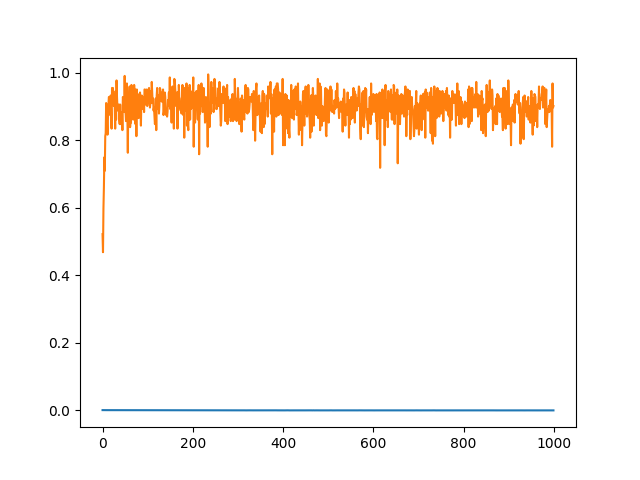
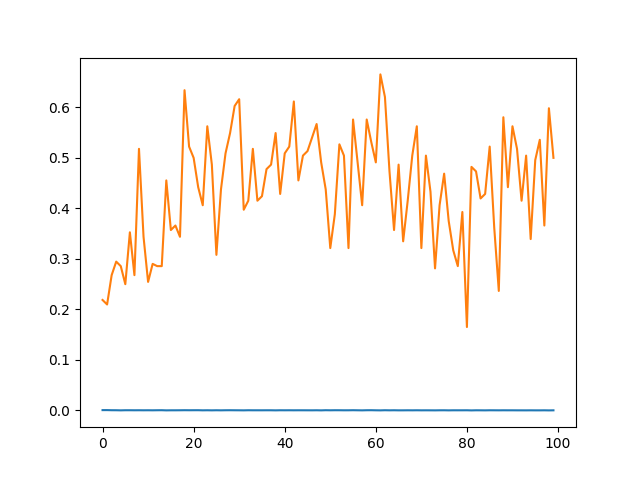
change accuracy function

diff --git a/try_with_torch.py b/try_with_torch.py
@@ -8,6 +8,7 @@ import numpy as np
 import torchvision
 import torchvision.transforms as transforms
 import matplotlib.pyplot as plt
+import json
 
 os.environ["CUDA_DEVICE_ORDER"] = "PCI_BUS_ID"
 # The GPU id to use, usually either "0" or "1"
@@ -16,17 +17,72 @@ os.environ["CUDA_VISIBLE_DEVICES"] = "1"
 nModules = 2
 nFeats = 256
 nStack = 4
-nOutChannels = 14
-epochs = 1000
+nOutChannels = 17
+epochs = 100
 batch_size = 16
+keypoints = 17
 
 mode = 'train'
-save_model_name = 'params_5.pkl'
+save_model_name = 'params_1_coco.pkl'
 
 train_set = 'train_set.txt'
 eval_set = 'eval_set.txt'
+train_set_coco = '/data/COCO2014/annotations/person_keypoints_train2014.json'
+eval_set_coco = '/data/COCO2014/annotations/person_keypoints_val2014.json'
+train_image_dir_coco = '/data/COCO2014/train2014/COCO_train2014_'
+eval_image_dir_coco = '/data/COCO2014/val2014/COCO_val2014_'
 
 rootdir = '/data/lsp_dataset/images/'
+
+
+class myImageDataset_COCO(data.Dataset):
+    def __init__(self, filename, image_dir, transform=None, dim=(256, 256), n_channels=3,
+                 n_joints=keypoints):
+        'Initialization'
+        with open(filename) as f:
+            datas = json.load(f)
+        self.lists = datas['annotations']
+        self.dim = dim
+        file = open(filename)
+        self.n_channels = n_channels
+        self.n_joints = n_joints
+        self.transform = transform
+        self.image_dir = image_dir
+
+    def __len__(self):
+        return 1000
+
+    def __getitem__(self, index):
+        data = self.lists[index]
+        image_name = self.image_dir + '%012d.jpg' % data['image_id']
+        image = Image.open(image_name)
+        image = image.convert('RGB')
+        w, h = image.size
+        image = image.resize([256, 256])
+        if self.transform is not None:
+            image = self.transform(image)
+        Gauss_map = np.zeros([keypoints, 64, 64])
+        for k in range(keypoints):
+            if data['keypoints'][k * 3 + 2] > 0:
+                xs = data['keypoints'][k * 3] / w * 64
+                ys = data['keypoints'][k * 3 + 1] / h * 64
+
+                sigma = 1
+                mask_x = np.matlib.repmat(xs, 64, 64)
+                mask_y = np.matlib.repmat(ys, 64, 64)
+
+                x1 = np.arange(64)
+                x_map = np.matlib.repmat(x1, 64, 1)
+
+                y1 = np.arange(64)
+                y_map = np.matlib.repmat(y1, 64, 1)
+                y_map = np.transpose(y_map)
+
+                temp = ((x_map - mask_x) ** 2 + (y_map - mask_y) ** 2) / (2 * sigma ** 2)
+
+                Gauss_map[k, :, :] = np.exp(-temp)
+
+        return image, torch.Tensor(Gauss_map)
 
 
 class myImageDataset(data.Dataset):
@@ -241,6 +297,8 @@ class PCKh(nn.Module):
             standard = torch.sqrt((torch.pow(head_ys - neck_ys, 2) + torch.pow(head_xs - neck_xs, 2)).float()) / 2
             for j in range(14):
                 label_heat_map = target[i, j, :, :]
+                if torch.max(label_heat_map) == 0:
+                    continue
                 label_ys = torch.max(torch.max(label_heat_map, 1)[0], 0)[1]
                 label_xs = torch.max(label_heat_map, 1)[1][head_ys]
                 predict_heat_map = x[i, j, :, :]
@@ -271,17 +329,21 @@ def main():
         transforms.ToTensor(),
         transforms.Normalize(mean=(0.5, 0.5, 0.5), std=(0.5, 0.5, 0.5))
     ])
-    imgLoader_train = data.DataLoader(myImageDataset(train_set, jointsdir, transform=mytransform), batch_size=batch_size,
-                                shuffle=True,
-                                num_workers=8)
-    imgLoader_eval = data.DataLoader(myImageDataset(eval_set, jointsdir, transform=mytransform),
-                                      batch_size=batch_size,
-                                      shuffle=True,
-                                      num_workers=8)
+    # imgLoader_train = data.DataLoader(myImageDataset(train_set, jointsdir, transform=mytransform), batch_size=batch_size,
+    #                             shuffle=True,
+    #                             num_workers=8)
+    # imgLoader_eval = data.DataLoader(myImageDataset(eval_set, jointsdir, transform=mytransform),
+    #                                   batch_size=batch_size,
+    #                                   shuffle=True,
+    #                                   num_workers=8)
+
+    imgLoader_train_coco = data.DataLoader(myImageDataset_COCO(train_set_coco, train_image_dir_coco, transform=mytransform), batch_size=batch_size, shuffle=True, num_workers=8)
+    imgLoader_eval_coco = data.DataLoader(myImageDataset_COCO(eval_set_coco, eval_image_dir_coco, transform=mytransform), batch_size=batch_size, shuffle=True, num_workers=4)
+
     opt = torch.optim.RMSprop(model.parameters(), lr=1e-4)
     if mode == 'train':
         for epoch in range(epochs):
-            for i, [x_, y] in enumerate(imgLoader_train, 0):
+            for i, [x_, y] in enumerate(imgLoader_train_coco, 0):
                 bx_, by = x_.cuda(), y.cuda()
                 result = model(bx_)
                 loss_1 = loss1.forward(result[0], by)
@@ -293,7 +355,7 @@ def main():
                 losses.backward()
                 opt.step()
             with torch.no_grad():
-                dataiter = iter(imgLoader_eval)
+                dataiter = iter(imgLoader_eval_coco)
                 x_, y = dataiter.next()
                 bx_, by = x_.cuda(), y.cuda()
                 result = model(bx_)
@@ -314,7 +376,7 @@ def main():
         model.load_state_dict(torch.load(save_model_name))
         image = Image.open(rootdir + 'im0401.jpg').resize([256, 256])
         image_normalize = (mytransform(image)).unsqueeze(0)
-        result = model.forward(image_normalize.cuda())
+        result = model.forward(image_normalize)
         # accuracy = pckh(result[3], label.cuda())
         # print(accuracy)
         result = result[3].cpu().data.numpy()

diff --git a/read_mscoco.py b/read_mscoco.py
@@ -1,7 +1,126 @@
+import torch
+import torch.nn as nn
+import torch.utils.data as data
 import json
+import numpy as np
+import numpy.matlib
+from PIL import Image, ImageDraw
+import matplotlib.pyplot as plt
 
-image_dir = '/data/COCO2014/'
-with open('/data/COCO2014/annotations/person_keypoints_train2014.json') as f:
-    data = json.load(f)
+keypoints = 17
+image_dir = '/data/COCO2014/val2014/COCO_val2014_'
+train_set_coco = '/data/COCO2014/annotations/person_keypoints_train2014.json'
+eval_set_coco = '/data/COCO2014/annotations/person_keypoints_val2014.json'
+train_image_dir_coco = '/data/COCO2014/train2014/COCO_train2014_'
+eval_image_dir_coco = '/data/COCO2014/val2014/COCO_val2014_'
 
-print(data)
+batch_size = 16
+keypoints = 17
+
+class myImageDataset_COCO(data.Dataset):
+    def __init__(self, filename, image_dir, transform=None, dim=(256, 256), n_channels=3,
+                 n_joints=keypoints):
+        'Initialization'
+        with open(filename) as f:
+            datas = json.load(f)
+        self.lists = datas['annotations']
+        self.dim = dim
+        file = open(filename)
+        self.n_channels = n_channels
+        self.n_joints = n_joints
+        self.transform = transform
+        self.image_dir = image_dir
+
+    def __len__(self):
+        return len(self.lists)
+
+    def __getitem__(self, index):
+        data = self.lists[index]
+        image_name = self.image_dir + '%012d.jpg' % data['image_id']
+        image = Image.open(image_name)
+        image = image.convert('RGB')
+        w, h = image.size
+        image = image.resize([256, 256])
+        if self.transform is not None:
+            image = self.transform(image)
+        Gauss_map = np.zeros([keypoints, 64, 64])
+        for k in range(keypoints):
+            if data['keypoints'][k * 3 + 2] > 0:
+                xs = data['keypoints'][k * 3] / w * 64
+                ys = data['keypoints'][k * 3 + 1] / h * 64
+
+                sigma = 1
+                mask_x = np.matlib.repmat(xs, 64, 64)
+                mask_y = np.matlib.repmat(ys, 64, 64)
+
+                x1 = np.arange(64)
+                x_map = np.matlib.repmat(x1, 64, 1)
+
+                y1 = np.arange(64)
+                y_map = np.matlib.repmat(y1, 64, 1)
+                y_map = np.transpose(y_map)
+
+                temp = ((x_map - mask_x) ** 2 + (y_map - mask_y) ** 2) / (2 * sigma ** 2)
+
+                Gauss_map[k, :, :] = np.exp(-temp)
+
+        return image, torch.Tensor(Gauss_map)
+
+
+if __name__ == '__main__':
+    dataset = myImageDataset_COCO(train_set_coco, train_image_dir_coco)
+    image, result = dataset.__getitem__(5)
+    print('yyy')
+    draw = ImageDraw.Draw(image)
+    for i in range(17):
+        plt.subplot(3, 9, i + 1)
+        plt.imshow(result[i, :, :])
+    for i in range(17):
+        x = result[i, :, :]
+        if np.max(x.numpy() > 0.5):
+            ys, xs = np.multiply(np.where(x == np.max(x.numpy())), 4)
+            width = 5
+            draw.ellipse([xs - width, ys - width, xs + width, ys + width], fill=(0, 255, 0), outline=(255, 0, 0))
+
+    del draw
+    plt.subplot(3, 1, 3)
+    plt.imshow(image)
+    plt.show()
+
+    with open('/data/COCO2014/annotations/person_keypoints_val2014.json') as f:
+        datas = json.load(f)
+    for i in range(len(datas['annotations'])):
+        data = datas['annotations'][i]
+        image_name = image_dir + '%012d.jpg' % data['image_id']
+        image = Image.open(image_name)
+        w, h = image.size
+        image = image.resize([256, 256])
+        Gauss_map = np.zeros([keypoints, 64, 64])
+        draw = ImageDraw.Draw(image)
+        for k in range(keypoints):
+            if data['keypoints'][k * 3 + 2] > 0:
+                xs = data['keypoints'][k * 3] / w * 64
+                ys = data['keypoints'][k * 3 + 1] / h * 64
+
+                width = 1
+                draw.ellipse([xs * 4 - width, ys * 4 - width, xs * 4 + width, ys * 4 + width], fill=(0, 255, 0), outline=(255, 0, 0))
+
+                sigma = 1
+                mask_x = np.matlib.repmat(xs, 64, 64)
+                mask_y = np.matlib.repmat(ys, 64, 64)
+
+                x1 = np.arange(64)
+                x_map = np.matlib.repmat(x1, 64, 1)
+
+                y1 = np.arange(64)
+                y_map = np.matlib.repmat(y1, 64, 1)
+                y_map = np.transpose(y_map)
+
+                temp = ((x_map - mask_x) ** 2 + (y_map - mask_y) ** 2) / (2 * sigma ** 2)
+
+                Gauss_map[k, :, :] = np.exp(-temp)
+        del draw
+        plt.imshow(image)
+        plt.show()
+        print('yyy')
+    print(datas)
